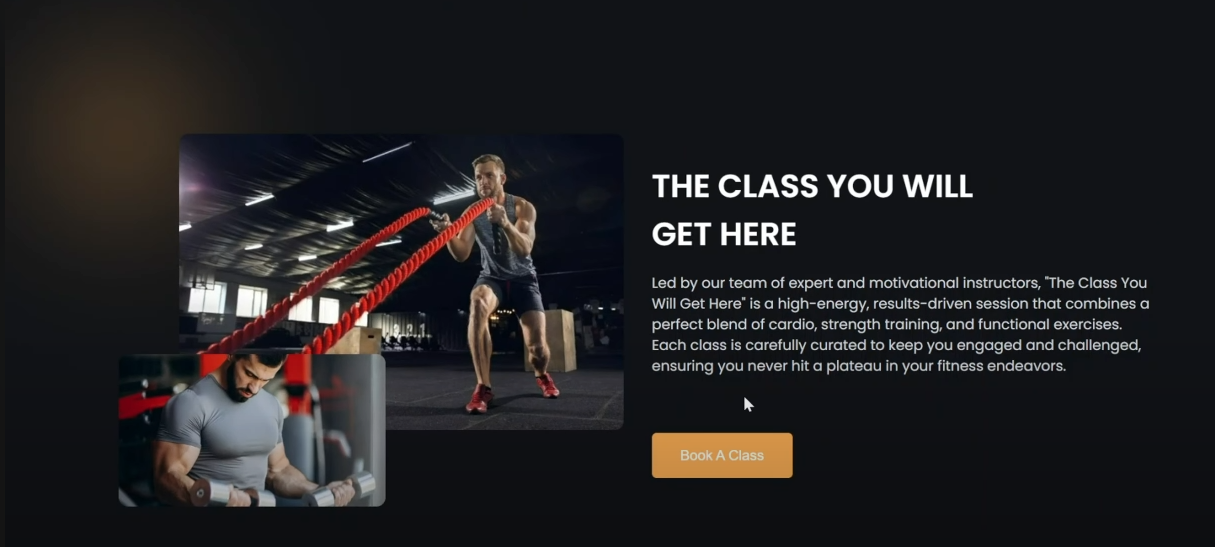
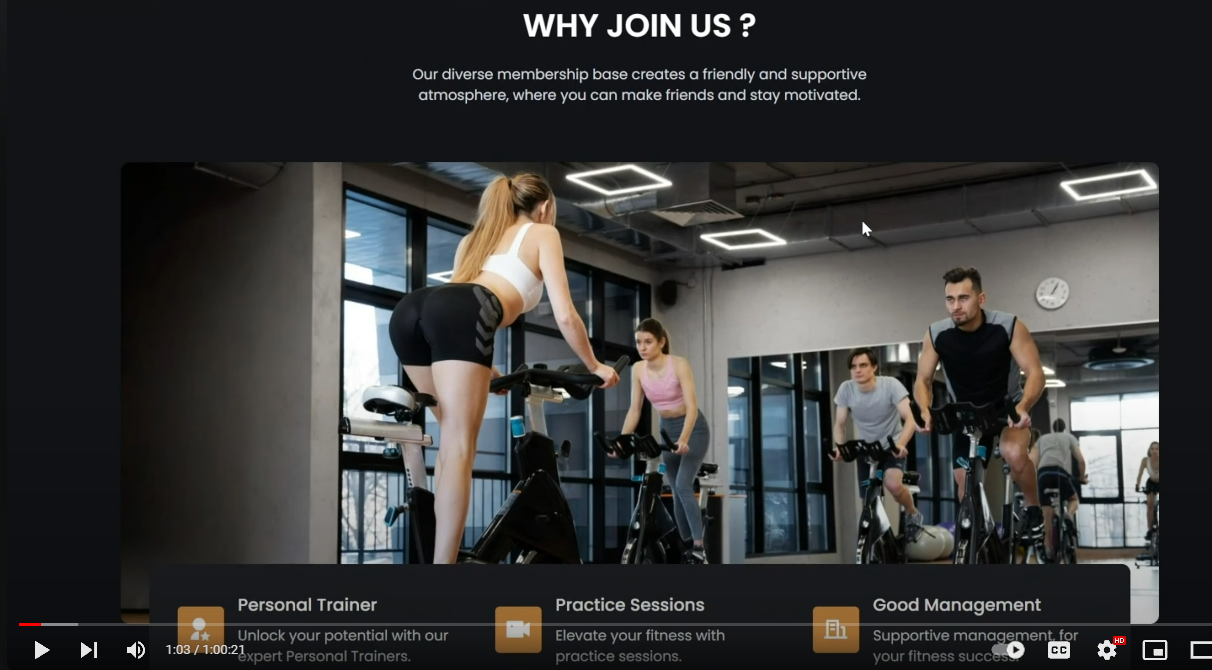
Made main section

diff --git a/src/program.js b/src/program.js
@@ -13,12 +13,12 @@ function program() {
      
       <div className='fill-white flex justify-around gap-[12vw] items-center pb-10 pt-[10vw] ' >
 
-          <h1 className='text-[4vw] font-extrabold' >
+          <h1 className='text-[4.5rem] font-extrabold' >
             Explore Our Program
           </h1>
 
           <svg xmlns="http://www.w3.org/2000/svg" height="44" viewBox="0 -960 960 960" width="44">
-            <path d="m480-80-10-120h-10q-142 0-241-99t-99-241q0-142 99-241t241-99q71 0 132.5 26.5t108 73q46.5 46.5 73 108T800-540q0 75-24.5 144t-67 128q-42.5 59-101 107T480-80Zm80-146q71-60 115.5-140.5T720-540q0-109-75.5-184.5T460-800q-109 0-184.5 75.5T200-540q0 109 75.5 184.5T460-280h100v54Zm-101-95q17 0 29-12t12-29q0-17-12-29t-29-12q-17 0-29 12t-12 29q0 17 12 29t29 12Zm-29-127h60q0-30 6-42t38-44q18-18 30-39t12-45q0-51-34.5-76.5T460-720q-44 0-74 24.5T344-636l56 22q5-17 19-33.5t41-16.5q27 0 40.5 15t13.5 33q0 17-10 30.5T480-558q-35 30-42.5 47.5T430-448Zm30-65Z"/></svg>
+            <path d="m480 -80-10-120h-10q-142 0-241-99t-99-241q0-142 99-241t241-99q71 0 132.5 26.5t108 73q46.5 46.5 73 108T800-540q0 75-24.5 144t-67 128q-42.5 59-101 107T480-80Zm80-146q71-60 115.5-140.5T720-540q0-109-75.5-184.5T460-800q-109 0-184.5 75.5T200-540q0 109 75.5 184.5T460-280h100v54Zm-101-95q17 0 29-12t12-29q0-17-12-29t-29-12q-17 0-29 12t-12 29q0 17 12 29t29 12Zm-29-127h60q0-30 6-42t38-44q18-18 30-39t12-45q0-51-34.5-76.5T460-720q-44 0-74 24.5T344-636l56 22q5-17 19-33.5t41-16.5q27 0 40.5 15t13.5 33q0 17-10 30.5T480-558q-35 30-42.5 47.5T430-448Zm30-65Z"/></svg>
       </div>
 
       <div id='cards' className='flex items-center gap-[2vw] justify-center flex-wrap'  >

diff --git a/src/section1.js b/src/section1.js
@@ -1,0 +1,31 @@
+import React from 'react'
+import './section1.css'
+import mainimg from './images/sectionbg.jpg'
+
+function section1() {
+  return (
+    <div className=' text-white' id='service' >
+      <div className='flex justify-center gap-[3.5rem] items-center  h-[100vh]' >  
+        <div className='w-[40%] flex flex-col text-left gap-4 ' >
+          <h1 className='text-[5vw] font-extrabold' >
+            Why Join Us?
+          </h1>
+
+          <p className='text-[1.5vw] text-left'>
+            Our diverse membership base creates a friendly and supportive
+            atmosphere, where you can make freinds and stay motivated.
+          </p>
+        </div>
+        <img src={mainimg} className='w-[730px] rounded-[25px] ' alt="" />
+
+        <div className='service-cards'>
+
+          
+          
+        </div>
+      </div>
+    </div>
+  )
+}
+
+export default section1

diff --git a/src/App.js b/src/App.js
@@ -4,13 +4,14 @@ import './index.css'
 import Navbar from './navbar';
 import Main from './main';
 import Program from './program'
+import Section1 from './section1'
 
 function App() {
   return (
     <div className="App">
       <Main/>
       <Program/>
-      {/* Section 1 */}
+      <Section1/>
       {/* Section 2 */}
       {/* Pricing */}
       {/* Member Reviews */}

diff --git a/src/program.css b/src/program.css
@@ -14,6 +14,7 @@
 .program-btn:hover{
     transform: scale(1.025);
     transition: .4s;
+    background-color: #f7a33c;
 }
 
 #cards > div{
